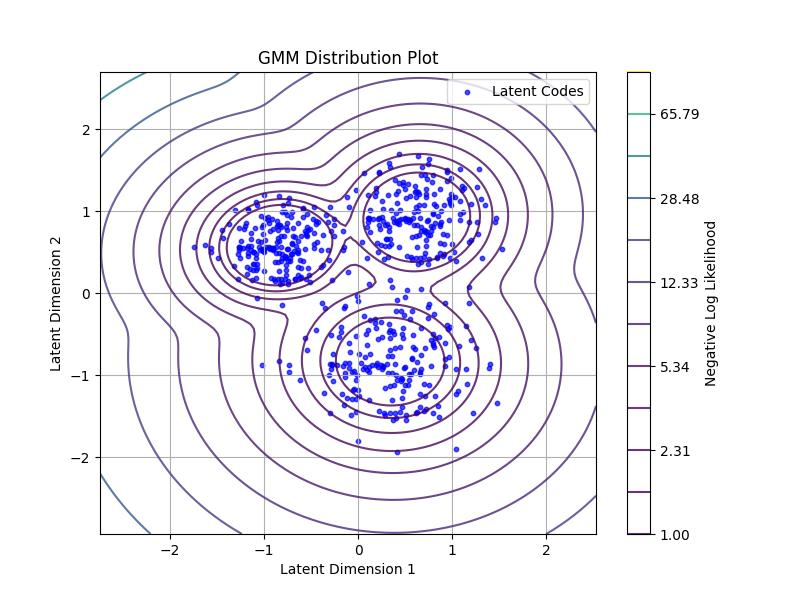
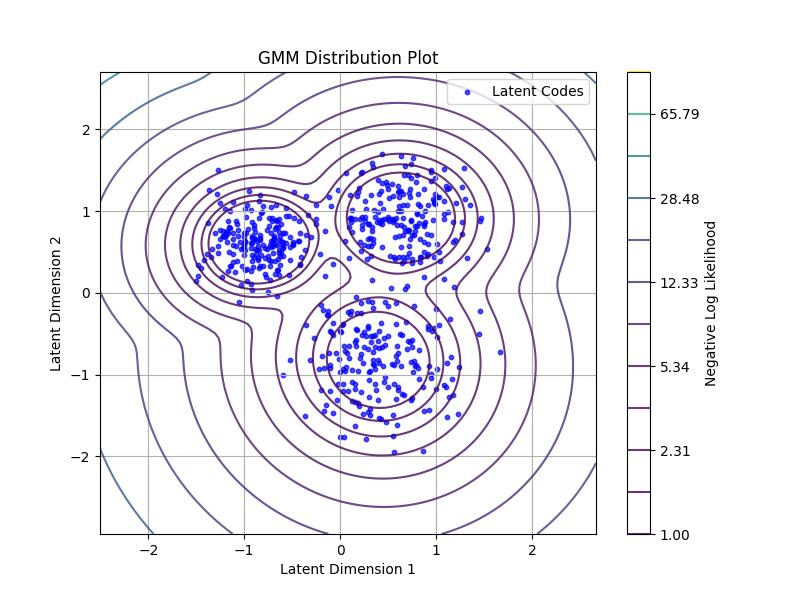
updated density tutorial/neurocog doc

diff --git a/docs/tutorials/neurocog/density_modeling.md b/docs/tutorials/neurocog/density_modeling.md
@@ -1,12 +1,13 @@
 # Density Modeling and Analysis 
 
-NGC-Learn offers some support for density modeling/estimation, which can be particularly useful in analyzing how internal properties of neuronal models organize (e.g., how the distributed representations of a model might cluster into distinct groups/categories) or to draw samples from the underlying generative model implied by a particular neuronal structure (e.g., sampling a predictive coding generative model). Particularly, within `ngclearn.utils.density`, one can find implementations of mixture models, e.g., a Gaussian mixture model (GMM), that might be implied to carry out such tasks. In this small lesson, we will demonstrate how to set up a GMM, fit it to some synthetic latent code data, and plot out the distribution it learns overlaid over the data samples as well as examine the kinds of patterns one may sample from the learnt GMM.
+NGC-Learn offers some support for density modeling/estimation, which can be particularly useful in analyzing how internal properties of neuronal models' self-organized cell populations (e.g., how the distributed representations of a model might cluster into distinct groups/categories) or to draw samples from the underlying generative model implied by a particular neuronal structure (e.g., sampling a trained predictive coding generative model). 
+Particularly, within `ngclearn.utils.density`, one can find implementations of mixture models -- such as a mixture-of-Bernoulli or a mixture-of-Gaussians -- which might be employed to carry out such tasks. In this small lesson, we will demonstrate how to set up a Gaussian mixture model (GMM), fit it to some synthetic latent code data, and plot out the distribution it learns overlaid over the data samples as well as examine the kinds of patterns one may sample from the learnt GMM.
 
 ## Setting Up a Gaussian Mixture Model
 
-Let's say you have a two-dimensional dataset of neural code vectors collected from another model you have simulated -- here, we will artificially synthesize this kind of data in this lesson from an "unobserved" trio of multivariate Gaussians (as was done in the t-SNE tutorial) -- and that, furthermore, you wanted to fit a GMM to these codes to later on sample from their underlying multi-modal distribution.
+Let's say you have a two-dimensional dataset of neural code vectors collected from another model you have simulated -- here, we will artificially synthesize this kind of data in this lesson from an "unobserved" trio of multivariate Gaussians (as was done in the t-SNE tutorial) and pretend that this is a set of collected vector measurements. Furthermore, you decide that, after consideration that your data might follow a multi-modal distribution (and reasonably asssuming that multivariate Gaussians might capture most of the inherent structure/shape), you want to fit a GMM to these codes to later on sample from their underlying multi-modal distribution.
 
-The following Python code will employ a GMM density estimator for you (including setting up the data generator):
+The following Python code will employ an NGC-Learn-in-built GMM density estimator for you (including setting up the data generator):
 
 ```python
 from jax import numpy as jnp, random
@@ -24,27 +25,33 @@ def gen_data(dkey, n_samp_per_mode): ## data generator (or proxy stochastic data
 
     dkey, *subkeys = random.split(dkey, 7)
     samp1 = random.multivariate_normal(subkeys[0], mu1, cov1, shape=(n_samp_per_mode,))
-    samp2 = random.multivariate_normal(subkeys[0], mu2, cov2, shape=(n_samp_per_mode,))
-    samp3 = random.multivariate_normal(subkeys[0], mu3, cov3, shape=(n_samp_per_mode,))
+    samp2 = random.multivariate_normal(subkeys[1], mu2, cov2, shape=(n_samp_per_mode,))
+    samp3 = random.multivariate_normal(subkeys[2], mu3, cov3, shape=(n_samp_per_mode,))
     X = jnp.concatenate((samp1, samp2, samp3), axis=0)
     y1 = jnp.ones((n_samp_per_mode, 3)) * jnp.asarray([[1., 0., 0.]])
     y2 = jnp.ones((n_samp_per_mode, 3)) * jnp.asarray([[0., 1., 0.]])
     y3 = jnp.ones((n_samp_per_mode, 3)) * jnp.asarray([[0., 0., 1.]])
     lab = jnp.concatenate((y1, y2, y3), axis=0) ## one-hot codes
+
+    ## shuffle the data 
+    ptrs = random.permutation(subkeys[3], X.shape[0])
+    X = X[ptrs, :]
+    lab = lab[ptrs, :]
+
     return X, lab, params
 
 ## set up the GMM density estimator
 key = random.PRNGKey(69)
-dkey, _ = random.split(key, 2)
-X, y, params = gen_data(key, n_samp_per_mode=200) #400)
+dkey, *skey = random.split(key, 3)
+X, y, params = gen_data(key, n_samp_per_mode=200) ## X is your "vector dataset"
 
-n_iter = 30 
-n_components = 3
-model = GMM(K=n_components, max_iter=n_iter, key=dkey)
+n_iter = 100 ## maximum number of iterations to fit GMM to data
+n_components = 3 ## number of mixture components w/in GMM
+model = GMM(K=n_components, max_iter=n_iter, key=skey[0])
 model.init(X) ## initailize the GMM to dataset X
 ```
 
-The above will construct a GMM with three components (or latent variables of its own) and be configured to use a maximum of `30` iterations to fit itself to data. Note that the call to `init()` will "shape" the GMM according to the dimensionality of the data and pre-initialize its parameters (i.e., choosing random data vectors to initialize its means). 
+The above will construct a GMM with three components (or latent variables of its own) and be configured to use a maximum of `100` iterations to fit itself to data. Note that the call to `init()` will "shape" the GMM according to the dimensionality of the data and pre-initialize its parameters (i.e., choosing random data vectors to initialize its means). 
 
 To fit the GMM itself to your dataset `X`, you will then write the following: 
 
@@ -56,28 +63,48 @@ model.fit(X, tol=1e-3, verbose=True) ## set verbose to `False` to silence the fi
 which should print to I/O something akin to: 
 
 ```console
-0: Mean-diff = 0.8029823303222656
-1: Mean-diff = 0.1899024397134781
-2: Mean-diff = 0.18127720057964325
-3: Mean-diff = 0.15023663640022278
-4: Mean-diff = 0.13917091488838196
-5: Mean-diff = 0.10519692301750183
-6: Mean-diff = 0.05732756853103638
-7: Mean-diff = 0.03420640528202057
-8: Mean-diff = 0.01907791942358017
-9: Mean-diff = 0.009763183072209358
-10: Mean-diff = 0.004887263756245375
-11: Mean-diff = 0.0024237236939370632
-12: Mean-diff = 0.0011952449567615986
-13: Mean-diff = 0.0005875130300410092
-Converged after 14 iterations.
+0: Mean-diff = 1.4143142700195312
+1: Mean-diff = 0.15272194147109985
+2: Mean-diff = 0.1888418346643448
+3: Mean-diff = 0.18062230944633484
+4: Mean-diff = 0.15196363627910614
+5: Mean-diff = 0.1135818138718605
+6: Mean-diff = 0.06951556354761124
+7: Mean-diff = 0.03664496913552284
+8: Mean-diff = 0.026161763817071915
+9: Mean-diff = 0.022674376145005226
+10: Mean-diff = 0.021674498915672302
+11: Mean-diff = 0.02205687016248703
+12: Mean-diff = 0.023379826918244362
+13: Mean-diff = 0.02553001046180725
+14: Mean-diff = 0.028586825355887413
+...
+<shortened for brevity>
+...
+32: Mean-diff = 0.06849467754364014
+33: Mean-diff = 0.06256962567567825
+34: Mean-diff = 0.05789890140295029
+35: Mean-diff = 0.05557262524962425
+36: Mean-diff = 0.05545869469642639
+37: Mean-diff = 0.056351397186517715
+38: Mean-diff = 0.057266443967819214
+39: Mean-diff = 0.05742649361491203
+40: Mean-diff = 0.05546746402978897
+41: Mean-diff = 0.04826011508703232
+42: Mean-diff = 0.03320707008242607
+43: Mean-diff = 0.016994504258036613
+44: Mean-diff = 0.007737572770565748
+45: Mean-diff = 0.0035514419432729483
+46: Mean-diff = 0.0016557337949052453
+47: Mean-diff = 0.0007792692049406469
+Converged after 48 iterations.
 ```
 
-In the above instance, notice that our GMM converged early, reaching a good log likelihood in `14` iterations. We can further calculate our model's log likelihood over the dataset `X` with the following in-built function:
+In the above instance, notice that our GMM converged early, reaching a good log likelihood in `48` iterations. We can further calculate our final model's log likelihood over the dataset `X` with the following in-built function:
 
 ```python
 # Calculate the GMM log likelihood 
-_, logPX = model.calc_log_likelihood(X) ## 1st output is log-lieklihood per data pattern
+_, logPX = model.calc_log_likelihood(X) ## 1st output is log-likelihood per data pattern
 print(f"log[p(X)] = {logPX} nats")
 ```
 
@@ -87,6 +114,7 @@ which will print out the following:
 log[p(X)] = -423.30889892578125 nats
 ```
 
+(If you add a log-likelihood measurement before you call `.fit()`, you will see that your original log-likelihood is around `-1046.91 nats`.) 
 Now, to visualize if our GMM actually capture the underlying multi-modal distribution of our dataset, we may visualize the final GMM with the following plotting code: 
 
 ```python

diff --git a/docs/source/ngclearn.utils.density.rst b/docs/source/ngclearn.utils.density.rst
@@ -4,6 +4,14 @@ ngclearn.utils.density package
 Submodules
 ----------
 
+ngclearn.utils.density.bmm module
+---------------------------------
+
+.. automodule:: ngclearn.utils.density.bmm
+   :members:
+   :undoc-members:
+   :show-inheritance:
+
 ngclearn.utils.density.gmm module
 ---------------------------------
 
